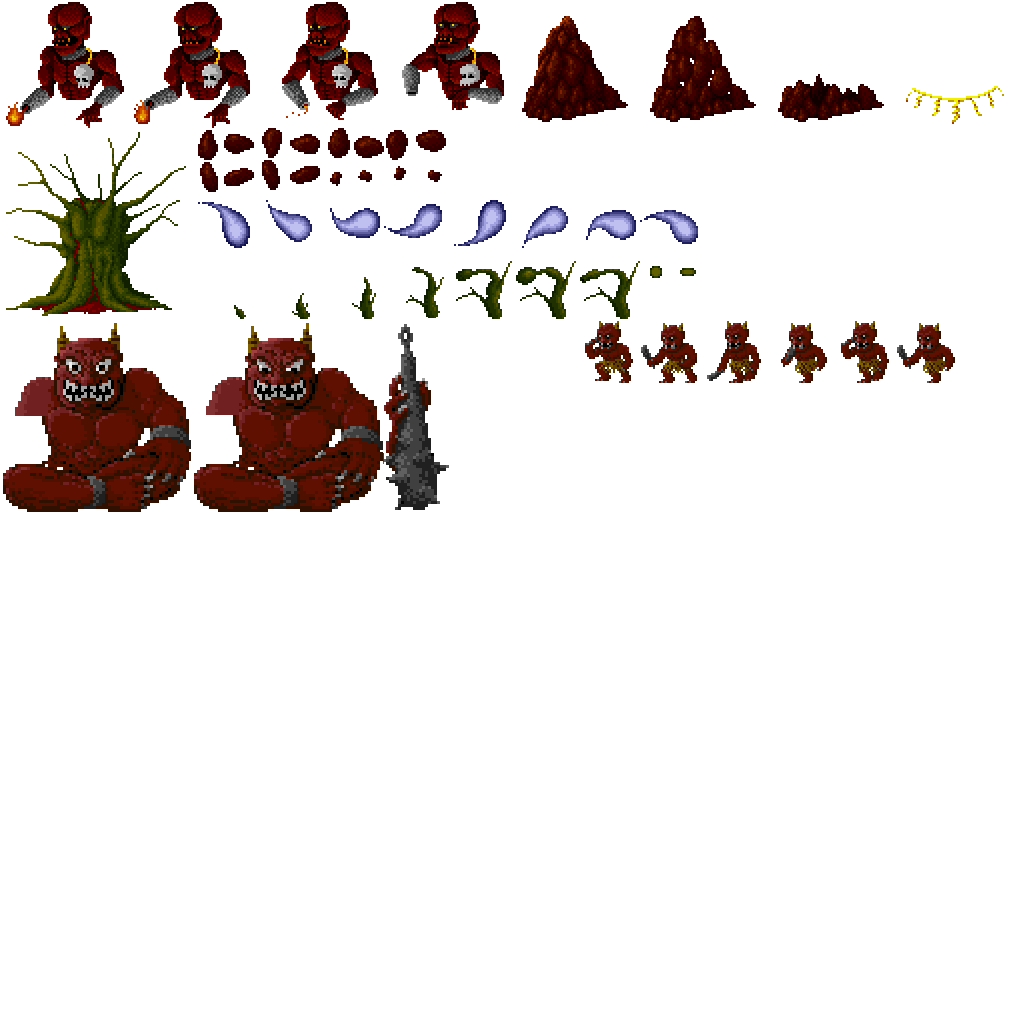
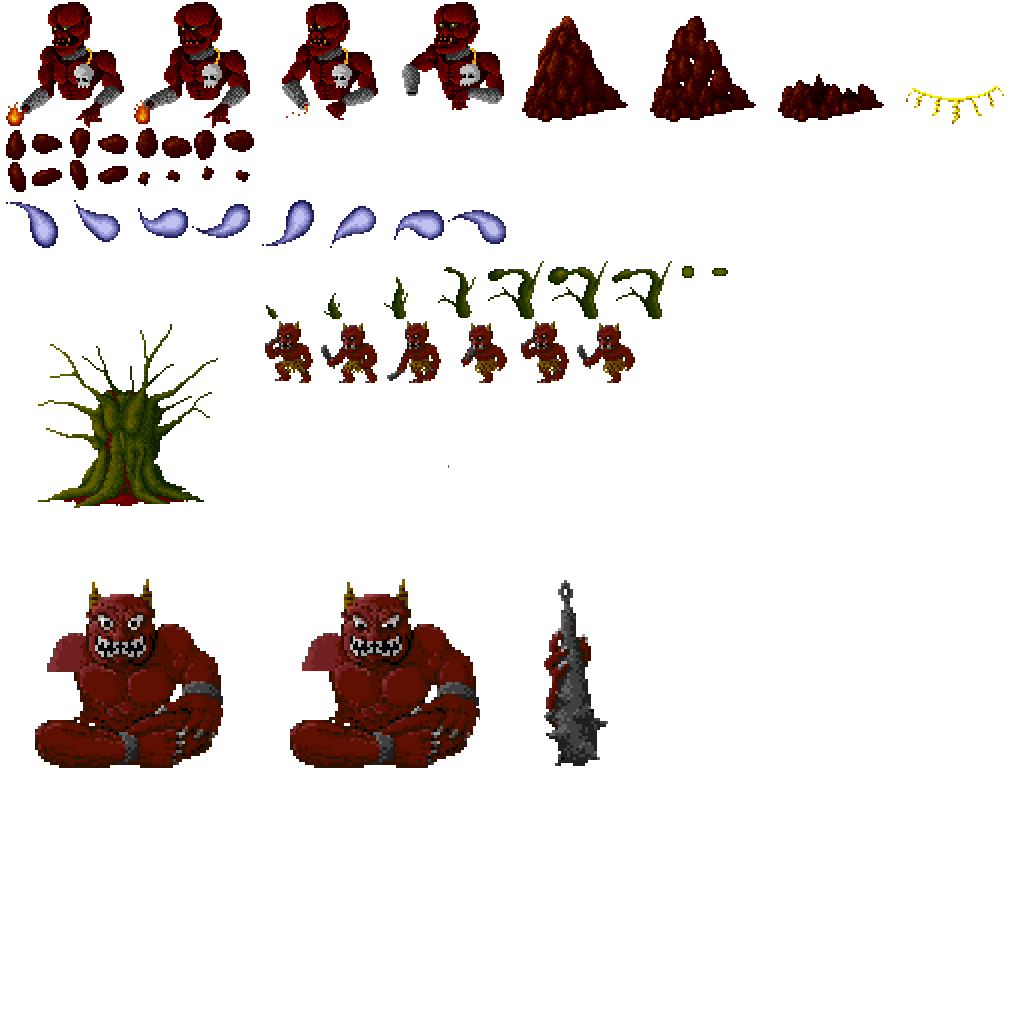
赤鬼移植

diff --git a/Solution/AceCommon/ViewerObject.cpp b/Solution/AceCommon/ViewerObject.cpp
@@ -29,11 +29,12 @@ void ViewerObject::draw( AREA area, int sx, int sy ) const {
 		unsigned char type = data->getObjectType( idx );
 		unsigned char attribute = data->getObjectAttribute( idx );
 		int pattern = data->getObjectPattern( idx );
-		drawSprite( x, y, type, attribute, pattern );
+		int size = data->getObjectSize( idx );
+		drawSprite( x, y, type, attribute, pattern, size );
 	}
 }
 
-void ViewerObject::drawSprite( int x, int y, unsigned char type, unsigned char attribute, int pattern ) const {
+void ViewerObject::drawSprite( int x, int y, unsigned char type, unsigned char attribute, int pattern, int size ) const {
 	Sprite sprite;
 	switch ( type ) {
 	case SynchronousData::TYPE_TAROSUKE:
@@ -61,7 +62,7 @@ void ViewerObject::drawSprite( int x, int y, unsigned char type, unsigned char a
 		sprite = getSpriteEnemy( GRAPH_ENEMY_BIG		, x, y, attribute, pattern );
 		break;
 	case SynchronousData::TYPE_ENEMY_BOSS:
-		sprite = getSpriteEnemy( GRAPH_ENEMY_BOSS		, x, y, attribute, pattern );
+		sprite = getSpriteEnemyBoss( GRAPH_ENEMY_BOSS	, x, y, attribute, pattern, size );
 		break;
 	};
 
@@ -112,10 +113,6 @@ ViewerObject::Sprite ViewerObject::getSpriteEnemy( GRAPH graph, int x, int y, un
 		chip_size = BIG_CHAR_GRAPH_SIZE;
 		width_num = ENEMY_BIG_CHIP_WIDTH;
 		break;
-	case GRAPH_ENEMY_BOSS:
-		//chip_size = SMALL_CHAR_GRAPH_SIZE;
-		//width_num = ENEMY_SMALL_CHIP_WIDTH;
-		break;
 	}
 	sprite.tx = pattern % width_num * chip_size;
 	sprite.ty = pattern / width_num * chip_size;
@@ -132,6 +129,30 @@ ViewerObject::Sprite ViewerObject::getSpriteEnemy( GRAPH graph, int x, int y, un
 		sprite.sy1 = y - chip_size;
 		sprite.sx2 = sprite.sx1 + chip_size;
 		sprite.sy2 = sprite.sy1 + chip_size;
+	}
+
+	return sprite;
+}
+
+ViewerObject::Sprite ViewerObject::getSpriteEnemyBoss( GRAPH graph, int x, int y, unsigned char attribute, int pattern, int size ) const {
+	Sprite sprite;
+	sprite.graph = graph;
+	int width_num = 1024 / size;
+	sprite.tx = pattern % width_num * size;
+	sprite.ty = pattern / width_num * size;
+	sprite.tw = size;
+	sprite.th = size;
+
+	if ( attribute & SynchronousData::ATTRIBUTE_REVERSE ) {
+		sprite.sx1 = x - size / 2 + size;
+		sprite.sy1 = y - size;
+		sprite.sx2 = sprite.sx1 - size;
+		sprite.sy2 = sprite.sy1 + size;
+	} else {
+		sprite.sx1 = x - size / 2;
+		sprite.sy1 = y - size;
+		sprite.sx2 = sprite.sx1 + size;
+		sprite.sy2 = sprite.sy1 + size;
 	}
 
 	return sprite;

diff --git a/Solution/AceLiveMonitor/EnemyLittleRedDaemon.cpp b/Solution/AceLiveMonitor/EnemyLittleRedDaemon.cpp
@@ -1,4 +1,5 @@
 #include "EnemyLittleRedDaemon.h"
+#include "SynchronousData.h"
 
 static const int WAIT_ANIM_TIME = 6;
 static const int MAX_HP = 3;
@@ -11,33 +12,9 @@ Enemy( pos, NORMAL_CHAR_GRAPH_SIZE, MAX_HP ) {
 EnemyLittleRedDaemon::~EnemyLittleRedDaemon( ) {
 }
 
-Chip EnemyLittleRedDaemon::getChip( ) const {
-	Chip chip = Chip( );
-	Vector pos = getPos( );
-	chip.size = getChipSize( );
-	chip.sx1 = ( int )pos.x - chip.size / 2;
-	chip.sy1 = ( int )pos.y - chip.size;
-	chip.sx2 = chip.sx1 + chip.size;
-	chip.sy2 = chip.sy1 + chip.size;
-	
-	const int ANIM[ ] = {
-		9, 10, 11, 12, 13, 14
-	};
-	int anim_size = sizeof( ANIM ) / sizeof( ANIM[ 0 ] );
-	int cx = ANIM[ ( getActCount( ) / WAIT_ANIM_TIME ) % anim_size ];
-	chip.tx = cx * chip.size;
-	chip.ty = 320;
-	return chip;
-}
-
-void EnemyLittleRedDaemon::act( ) {
-	setVec( Vector( -3, 0 ) );
-}
-
-/*
 void EnemyLittleRedDaemon::setSynchronousData( unsigned char type, int camera_pos ) const {
 	const int ANIM[ ] = {
-		220, 221, 222, 223, 224, 225, 226, 227, 226, 227, 226, 225, 224, 223, 222, 221
+		84, 85, 86, 87, 88, 89
 	};
 	int anim_size = sizeof( ANIM ) / sizeof( ANIM[ 0 ] );
 	
@@ -55,6 +32,9 @@ void EnemyLittleRedDaemon::setSynchronousData( unsigned char type, int camera_po
 		attribute |= SynchronousData::ATTRIBUTE_REVERSE;
 	}
 	SynchronousDataPtr data( SynchronousData::getTask( ) );
-	data->addObject( area, type, ANIM[ getActCount( ) / WAIT_ANIM_TIME % anim_size ], attribute, x, y );
+	data->addObject( area, SynchronousData::TYPE_ENEMY_BOSS, ANIM[ getActCount( ) / WAIT_ANIM_TIME % anim_size ], attribute, x, y, getChipSize( ) );
 }
-*/
+
+void EnemyLittleRedDaemon::act( ) {
+	setVec( Vector( -3, 0 ) );
+}

diff --git a/Solution/AceCommon/SynchronousData.h b/Solution/AceCommon/SynchronousData.h
@@ -48,6 +48,7 @@ public:
 	unsigned char getObjectType( int idx ) const;
 	unsigned char getObjectAttribute( int idx ) const;
 	int getObjectPattern( int idx ) const;
+	int getObjectSize( int idx ) const;
 	int getIdx( AREA area, int relative_idx ) const;
 public:
 	void * getPtr( );
@@ -59,7 +60,7 @@ public:
 	void setStatusRedo( int idx, int redo );
 	void setStatusState( int idx, unsigned char state );
 	void resetObject( );
-	void addObject( AREA area, unsigned char type, int pattern, unsigned char attribute, int ax, int ay );
+	void addObject( AREA area, unsigned char type, int pattern, unsigned char attribute, int ax, int ay, int size = -1 );
 private:
 	static const int OBJECT_NUM = 140;
 
@@ -79,6 +80,7 @@ private:
 				unsigned char attribute;
 				long          ax;
 				long          ay;
+				unsigned int size;
 			} object[ OBJECT_NUM ];
 			int idx[ MAX_AREA ];
 		};

diff --git a/Solution/AceCommon/SynchronousData.cpp b/Solution/AceCommon/SynchronousData.cpp
@@ -137,7 +137,11 @@ int SynchronousData::getObjectPattern( int idx ) const {
 	return _data.object[ idx ].pattern;
 }
 
-void SynchronousData::addObject( AREA area, unsigned char type, int pattern, unsigned char attribute, int ax, int ay ) {
+int SynchronousData::getObjectSize( int idx ) const {
+	return _data.object[ idx ].size;
+}
+
+void SynchronousData::addObject( AREA area, unsigned char type, int pattern, unsigned char attribute, int ax, int ay, int size ) {
 	if ( _data.idx[ AREA_MAIN ] >= _data.idx[ AREA_EVENT ] ) {
 		return;
 	}
@@ -155,4 +159,5 @@ void SynchronousData::addObject( AREA area, unsigned char type, int pattern, uns
 	_data.object[ index ].attribute = attribute;
 	_data.object[ index ].ax        = ( long )ax;
 	_data.object[ index ].ay        = ( long )ay;
+	_data.object[ index ].size      = size;
 }

diff --git a/Solution/AceCommon/ViewerObject.h b/Solution/AceCommon/ViewerObject.h
@@ -35,9 +35,10 @@ private:
 		int sy2;
 	};
 private:
-	void drawSprite( int x, int y, unsigned char type, unsigned char attribute, int pattern ) const;
+	void drawSprite( int x, int y, unsigned char type, unsigned char attribute, int pattern, int size ) const;
 	Sprite getSpritePlayer( GRAPH graph, int x, int y, unsigned char attribute, int pattern ) const;
 	Sprite getSpriteEnemy( GRAPH graph, int x, int y, unsigned char attribute, int pattern ) const;
+	Sprite getSpriteEnemyBoss( GRAPH graph, int x, int y, unsigned char attribute, int pattern, int size ) const;
 private:
 	std::array< ImagePtr, MAX_GRAPH > _image;
 };

diff --git a/Solution/AceLiveMonitor/EnemyHand.cpp b/Solution/AceLiveMonitor/EnemyHand.cpp
@@ -41,7 +41,7 @@ void EnemyHand::setSynchronousData( unsigned char type, int camera_pos ) const {
 		area = AREA_MAIN;
 	}
 	unsigned char attribute = 0;
-	if ( getDir( ) == DIR_RIGHT ) {
+	if ( getDir( ) == DIR_LEFT ) {
 		attribute |= SynchronousData::ATTRIBUTE_REVERSE;
 	}
 	SynchronousDataPtr data( SynchronousData::getTask( ) );

diff --git a/Solution/AceLiveMonitor/Military.cpp b/Solution/AceLiveMonitor/Military.cpp
@@ -94,6 +94,7 @@ void Military::update( ) {
 	{//event
 		if ( _boss ) {
 			_boss->update( );
+			_boss->setSynchronousData( SynchronousData::TYPE_ENEMY_BOSS, camera_pos );
 			for ( int i = 0; i < ACE_PLAYER_NUM; i++ ) {
 				PlayerPtr player( family->getPlayer( i ) );
 				if ( player->isOverlapped( _boss ) ) {

diff --git a/Solution/AceLiveMonitor/EnemyBossRedDaemon.h b/Solution/AceLiveMonitor/EnemyBossRedDaemon.h
@@ -8,8 +8,7 @@ public:
 	EnemyBossRedDaemon( const Vector& pos );
 	virtual ~EnemyBossRedDaemon( );
 public:
-	Chip getChip( ) const;
-	Chip getChip2( ) const;
+	void setSynchronousData( unsigned char type, int camera_pos ) const;
 	void dropItem( );
 protected:
 	void act( );

diff --git a/Solution/AceLiveMonitor/EnemyLittleRedDaemon.h b/Solution/AceLiveMonitor/EnemyLittleRedDaemon.h
@@ -6,7 +6,7 @@ public:
 	EnemyLittleRedDaemon( const Vector& pos );
 	virtual ~EnemyLittleRedDaemon( );
 public:
-	Chip getChip( ) const;
+	void setSynchronousData( unsigned char type, int camera_pos ) const;
 protected:
 	void act( );
 };
